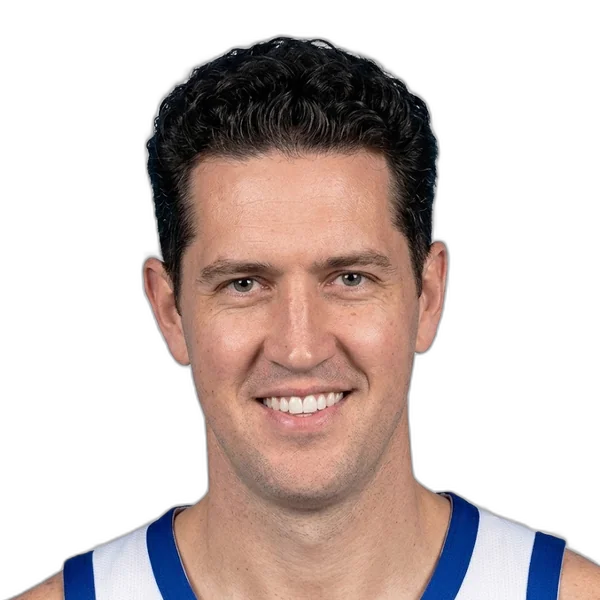
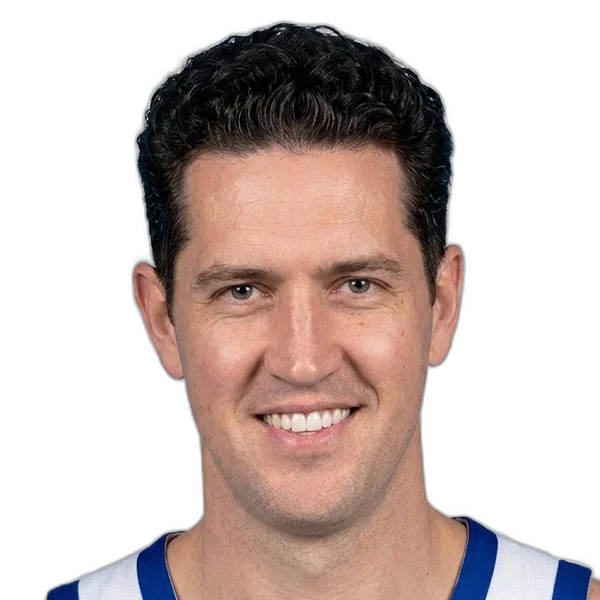
Normalise portrait head size; add make-portrait tool
Claude-Session: https://claude.ai/code/session_01MwZ67aepJJhUZJuSBZ7izX

Changed region(s): [[0.0, 0.03, 1.0, 1.0], [0.57, 0.3, 0.6, 0.33]]

diff --git a/tools/make-portrait.py b/tools/make-portrait.py
@@ -1,0 +1,48 @@
+#!/usr/bin/env python3
+"""Turns a raw portrait photo into assets/players/<id>.webp: background removed, face scaled to the
+same size and position as every other portrait, 600x600.
+Usage: python3 tools/make-portrait.py <photo> <player-id>
+Needs: pip install rembg onnxruntime opencv-python-headless pillow numpy"""
+import sys
+import cv2
+import numpy as np
+from PIL import Image
+from rembg import remove, new_session
+
+FACE_W = 0.56   # face width as a share of the frame (the existing portraits average 0.56)
+FACE_TOP = 0.26  # top of the face box, as a share of the frame height
+SIZE = 600
+
+def face_box(im):
+    rgb = Image.new('RGB', im.size, (128, 128, 128))
+    rgb.paste(im, mask=im.split()[3])
+    gray = cv2.cvtColor(np.array(rgb), cv2.COLOR_RGB2GRAY)
+    det = cv2.CascadeClassifier(cv2.data.haarcascades + 'haarcascade_frontalface_default.xml')
+    f = det.detectMultiScale(gray, 1.1, 5, minSize=(int(im.width * 0.15),) * 2)
+    if not len(f):
+        return None
+    return max(f, key=lambda r: r[2])
+
+def main(src, pid):
+    im = Image.open(src).convert('RGB')
+    cut = remove(im, session=new_session('u2net')).convert('RGBA')
+    box = face_box(cut)
+    if box is None:
+        s = min(cut.size)
+        crop = cut.crop((0, 0, s, s))
+        print('no face found, plain square crop')
+    else:
+        x, y, w, h = [int(v) for v in box]
+        side = w / FACE_W
+        left = x + w / 2 - side / 2
+        top = y - FACE_TOP * side
+        canvas = Image.new('RGBA', (int(side), int(side)), (0, 0, 0, 0))
+        canvas.paste(cut, (int(-left), int(-top)))
+        crop = canvas
+    out = crop.resize((SIZE, SIZE), Image.LANCZOS)
+    path = 'assets/players/%s.webp' % pid
+    out.save(path, 'WEBP', quality=85, method=6, exact=True)
+    print('saved', path)
+
+if __name__ == '__main__':
+    main(sys.argv[1], sys.argv[2])
